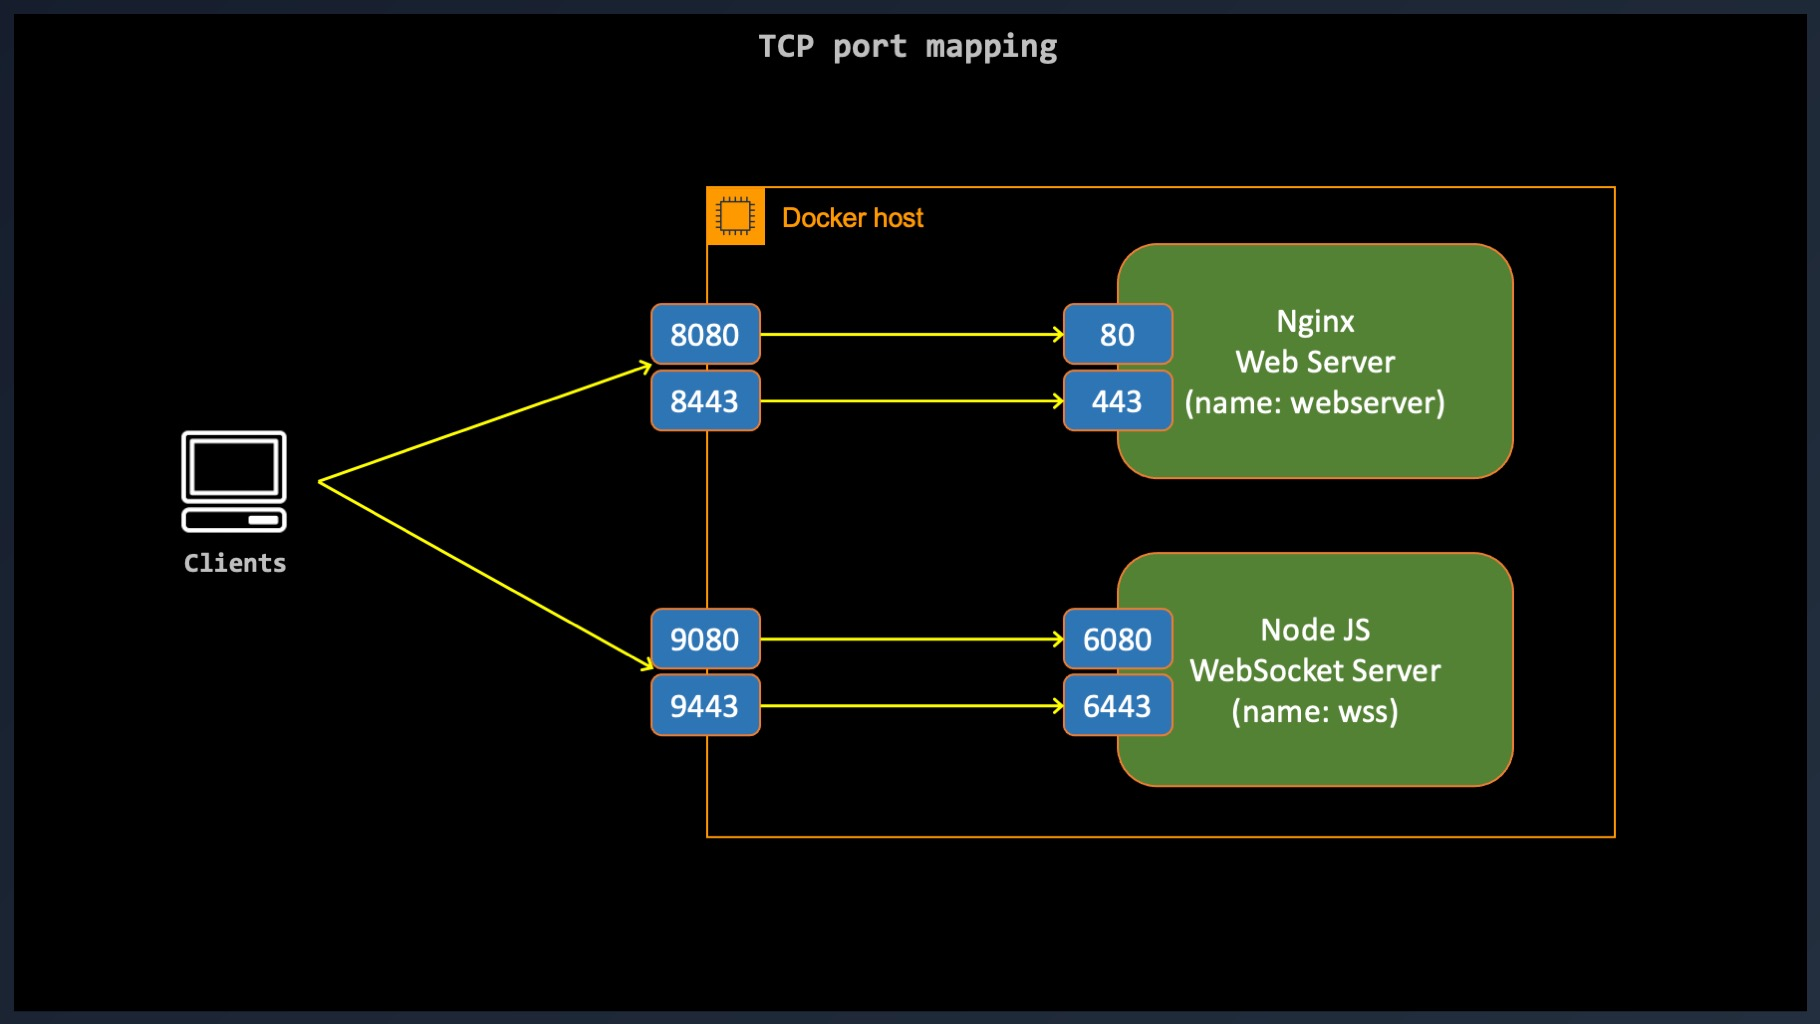
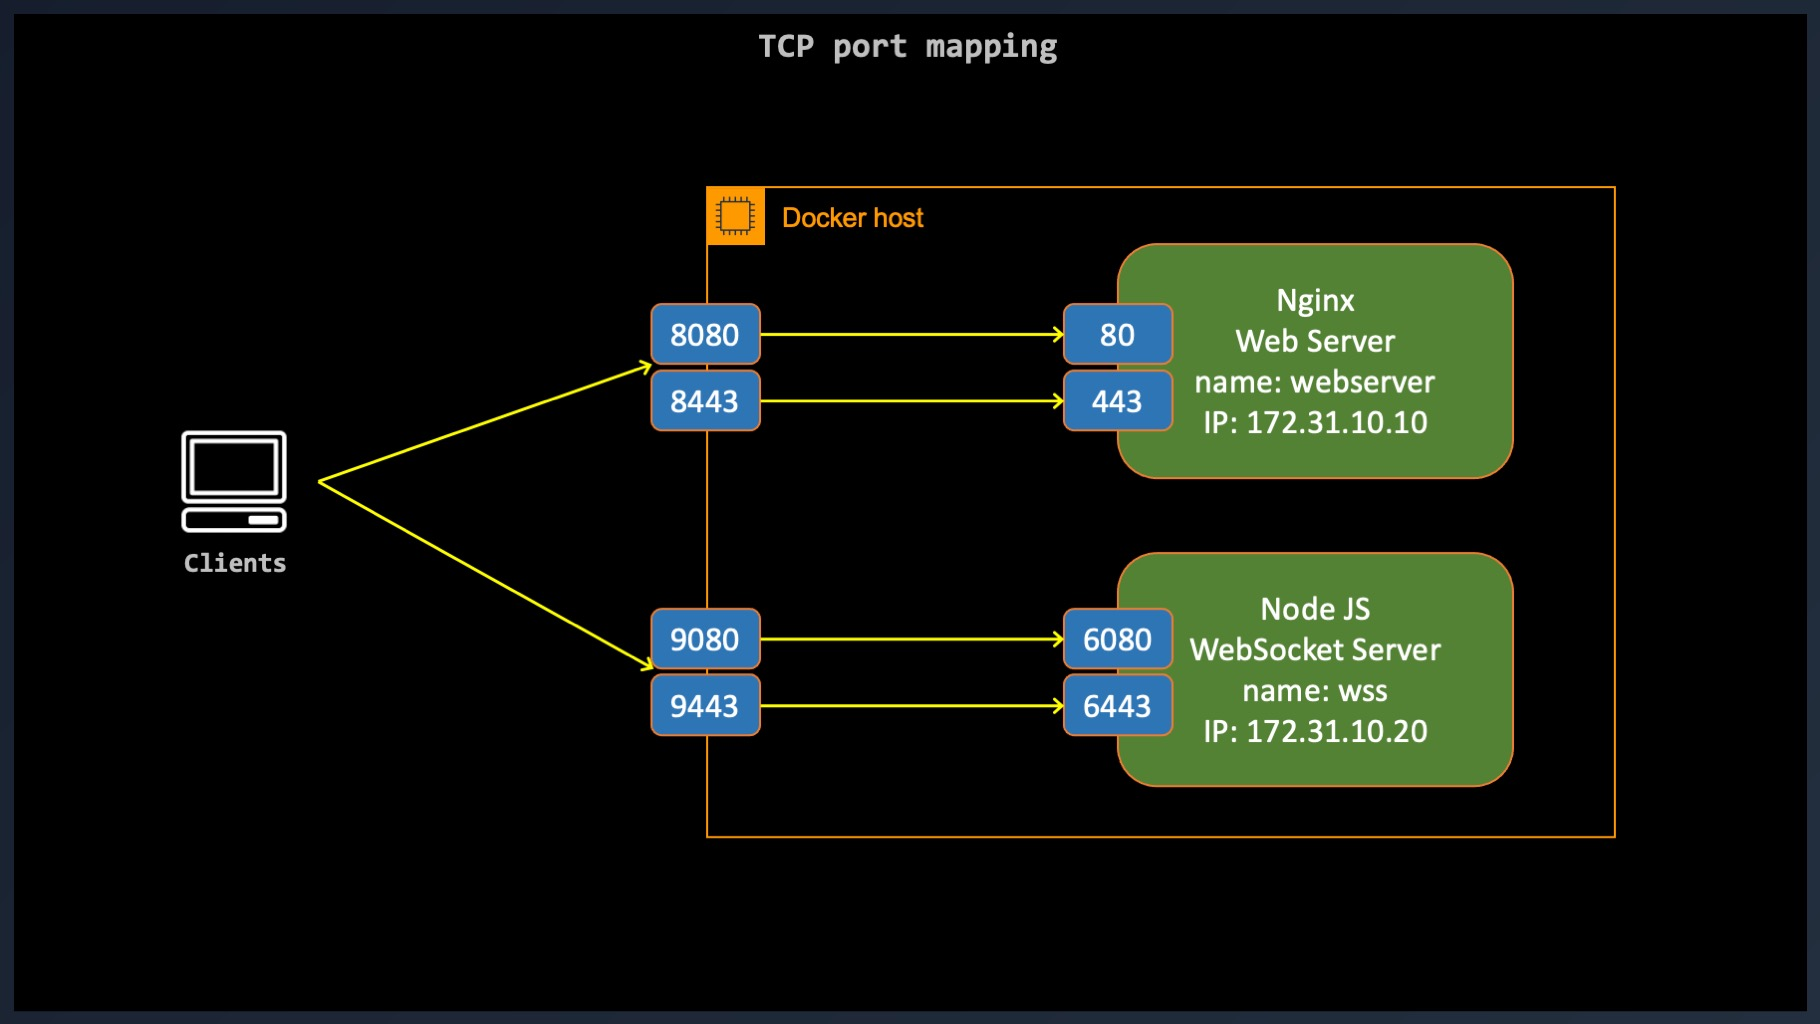
Update README.md

Changed region(s): [[0.6462, 0.5625, 0.8, 0.75], [0.6462, 0.2812, 0.8, 0.4375]]

diff --git a/README.md b/README.md
@@ -244,24 +244,24 @@ docker run -it --rm --name wss --hostname wss --domainname example.com --ip 172.
 
 ### Test via the web server
 
-Start a connection to the WebSocket server by using client browser. The web server sends a standard HTML page with a JavaScript. It's the JavaScript that will initiate the connection to the WebSocket server.
-
-1. Start your favorite browser
-2. Type the url `localhost:8080`
+1. Start your favorite browser.
+2. Type the url `localhost:8080`.
 3. Fill the information and press `connect`.
 4. Type a message in the `input message box` and hit the button `Send Message`. If successful, the server will send the message back in the box below.
 
+>The web server sends a standard HTML page with a JavaScript. The HTML page has fields for the information needed to start the WebSocket session. The JavaScript will initiate the connection to the WebSocket server. The browser is the `client` here.
+
 ![Successful connection](images/connected.png "Success")
 
->Those are the different `endpoint` accepted by the server. The endpoint `/rtt` does only make sense with the Node JS client.
+>Those are the different `endpoint` accepted by the server. The endpoint `/rtt` does only make sense with the Node JS client. If you enter an `endpoint` not defined, the server sends a error message and close the session. This is per design.
+>>- /  
 >>- /foo  
 >>- /bar  
->>- /  
 >>- /rtt  
 
 ### Test via a Node JS client application script
 
-The Node JS command line client initiate a connection to the server. The client just sends the time, in `ms`, to the server and waits for the server to send the time back. It calculates the round-trip time and prints it. The server has been built to close the WebSocket after sending the time.
+The Node JS command line client initiate a connection to the server. The URL is passed as an argument to the script. The client just sends the time, in `ms`, to the server and waits for the server to send it back. It calculates the round-trip time and prints it. The server has been built to close the WebSocket after sending the time.
 
 You need to have Node JS installed locally, if you don't or don't want to install it locally, just run the script from another Node JS Docker container.
 
@@ -281,11 +281,13 @@ If you don't want to install Node JS locally, just start another Node JS contain
 
 ![Client inside Docker container](images/client_inside.jpg "Client inside Docker container")
 
+Start a temporary Node JS container, jump into the shell and run the command from there. When done testing, just type `exit` and the container will terminate. No need to specify a static IP for the client, DHCP will be just fine. Since the client script is in the same directory as the server, the same directory is mounted but this time in `readonly`.
+
 ```command
 docker run -it --rm --name wsc --hostname wsc --domainname example.com --mount type=bind,source="$(pwd)",target=/run,readonly -w /run --network frontend node:current-alpine /bin/sh
 ```
 
-From the command line, the prompt should look like this `/run #`, start the client. Make sure you specify the correct port number. **Don't forget, you are inside the network __frontend__**.
+From the command line, the prompt should look like this `/run #`. Just type either or both commands to start the client. Make sure you specify the correct port number. **Don't forget, you are INSIDE the network __frontend__**. The IP address if the WebSocket server is it's real IP address inside the network `frontend`.
 
 For `non secure` WebSocket:
 
@@ -301,8 +303,7 @@ node client-rtt.js wss://172.31.10.20:6443
 
 3. Run the client from the command line.
 
-If you do have Node JS installed locally, just start the client from the command line.
-
+If you have Node JS installed locally, you can start the client from the host command line. The IP address of the WebSocket server is `localhost` and the TCP ports are the external one, not the one configured on the server.
 
 ![Client outside Docker container](images/client_outside.jpg "Client outside Docker container")
 
@@ -351,7 +352,7 @@ When you're done, it's always a good idea to clean everything. If you followed a
 docker rm -f webserver
 ```
 
-Check that both of the Docker container you started are terminated.
+Check that all of the Docker container you started are terminated.
 
 ```command
 docker ps -a
